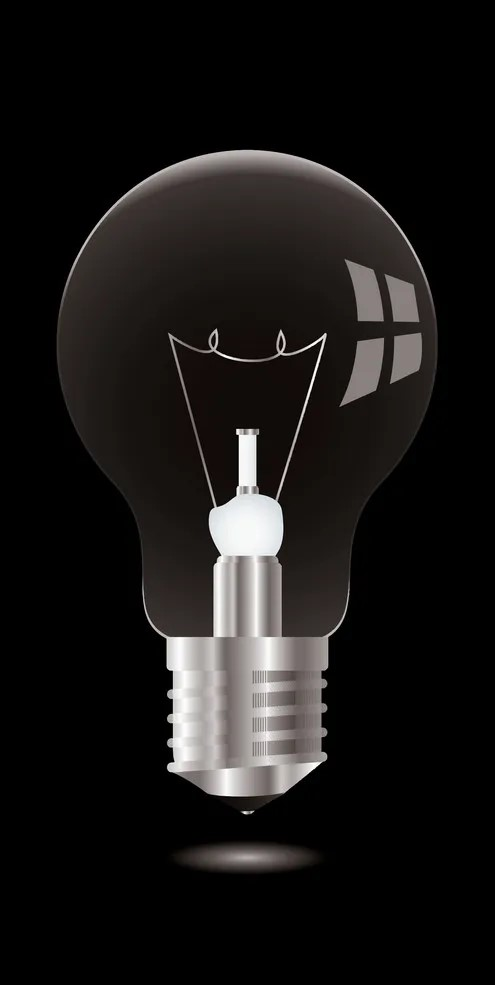
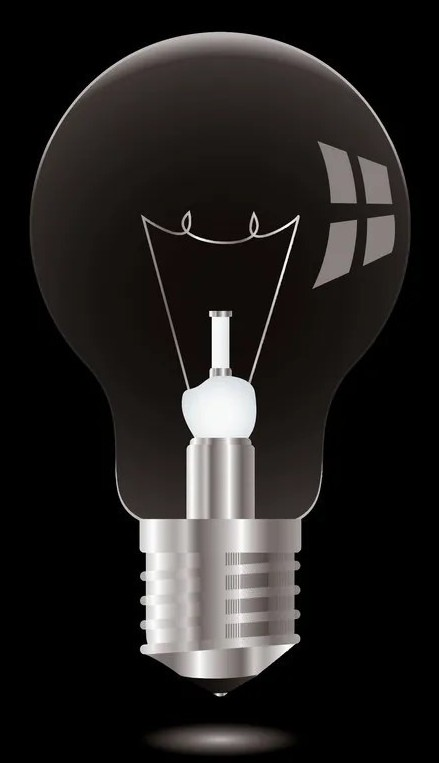
Modified

Changed region(s): [[0.0592, 0.0301, 0.9476, 0.9948], [0.385, 0.422, 0.4146, 0.4823]]

diff --git a/index.html b/index.html
@@ -6,9 +6,10 @@
     <meta http-equiv="X-UA-Compatible" content="IE=edge">
     <meta name="viewport" content="width=device-width, initial-scale=1.0">
     <title>Switch Bulb</title>
+    <link rel="stylesheet" href="style.css">
     <link rel="icon"
         href="https://img.freepik.com/premium-vector/off-buttons-flat-style-toggle-switch-vector-illustration-isolated-background-shutdown-sign-business-concept_157943-2466.jpg?size=338&ext=jpg&ga=GA1.2.388520416.1671428687">
-    <style>
+    <!-- <style>
         .center {
             display: block;
             margin-left: auto;
@@ -17,19 +18,19 @@
 
         .btn {
             padding: 15px;
-            background-color: green;
+            background-color: white;
 
         }
 
         #bulb {
-            width: 25%;
+            width: 30%;
         }
-    </style>
+    </style> -->
 </head>
 
 <body style="background-color: black;">
     <img id="bulb" src="img/Bulb Off.jpg" alt="" class="center">
-    <button id="toggleBtn" class="center btn">TURN ON</button>
+    <button id="toggleBtn" class="button" style="vertical-align:middle"><span>TURN ON</span></button>
     <script>
         let btn = document.getElementById('toggleBtn')
         let bulb = document.getElementById('bulb')

diff --git a/style.css b/style.css
@@ -1,0 +1,51 @@
+.center {
+    display: block;
+    margin-left: auto;
+    margin-right: auto;
+    margin-bottom: 24px;
+}
+
+#bulb {
+    width: 28%;
+}
+
+.button {
+    display: block;
+    margin-left: auto;
+    margin-right: auto;
+    border-radius: 4px;
+    background-color: #f4511e;
+    border: none;
+    color: #FFFFFF;
+    text-align: center;
+    font-size: 28px;
+    padding: 20px;
+    width: 200px;
+    transition: all 0.5s;
+    cursor: pointer;
+}
+
+.button span {
+    cursor: pointer;
+    display: inline-block;
+    position: relative;
+    transition: 0.5s;
+}
+
+.button span:after {
+    content: '\00bb';
+    position: absolute;
+    opacity: 0;
+    top: 0;
+    right: -20px;
+    transition: 0.5s;
+}
+
+.button:hover span {
+    padding-right: 25px;
+}
+
+.button:hover span:after {
+    opacity: 1;
+    right: 0;
+}
